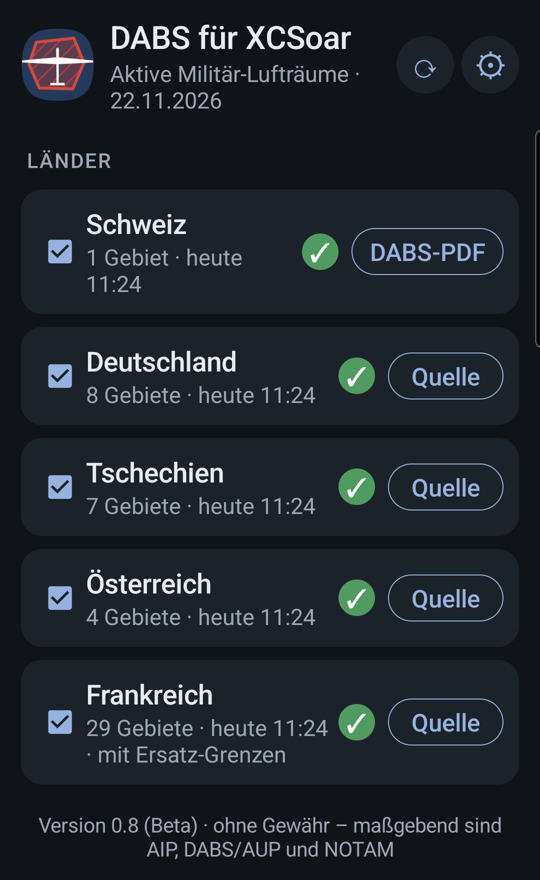
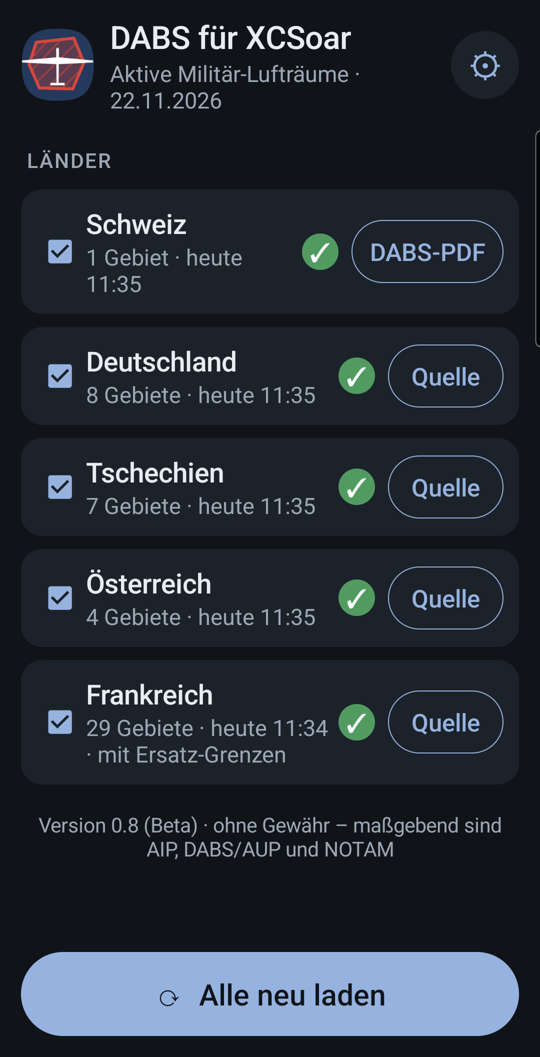
0.8: großer Neu-laden-Knopf unten, Tippflächen ≥48 dp, Einstellungen mit Unterseiten, NOTAM-Abfragen parallel
- fester Knopf unten mit Fortschritt ('3 von 5 fertig'), kleiner Knopf oben entfällt
- Einstellungen: Menü mit 4 Unterseiten
- NOTAM-Abfragen gleichzeitig: Frankreich ~11 s statt >60 s

diff --git a/app/src/dabs/xcsoar/SettingsActivity.java b/app/src/dabs/xcsoar/SettingsActivity.java
@@ -17,14 +17,25 @@ import android.widget.TextView;
 public class SettingsActivity extends Activity {
     private Ui ui;
     private LinearLayout body;
+    private String page; // null = Menü, sonst "help", "installs", "storage", "about"
+
+    static String title(String p) {
+        switch (p) {
+            case "help": return "So funktioniert's";
+            case "installs": return "XCSoar-Versionen";
+            case "storage": return "Dateizugriff";
+            default: return "Copyright & Quellen";
+        }
+    }
 
     @Override
     protected void onCreate(Bundle b) {
         Ui.theme(this);
         super.onCreate(b);
         ui = new Ui(this);
+        page = getIntent().getStringExtra("page");
         LinearLayout col = ui.page();
-        ui.backHeader(col, "Einstellungen");
+        ui.backHeader(col, page == null ? "Einstellungen" : title(page));
         body = new LinearLayout(this);
         body.setOrientation(LinearLayout.VERTICAL);
         col.addView(body);
@@ -38,9 +49,40 @@ public class SettingsActivity extends Activity {
 
     private void build() {
         body.removeAllViews();
+        if (page == null) { menu(); return; }
+        switch (page) {
+            case "help": help(); break;
+            case "installs": installs(); break;
+            case "storage": storage(); break;
+            default: about();
+        }
+    }
 
-        // --- Programmhinweise
-        body.addView(ui.section("So funktioniert's"));
+    /** Menü: große, gut treffbare Einträge. */
+    private void menu() {
+        int n = 0;
+        for (Updater.Install i : Updater.installs()) if (i.exists() && Updater.installEnabled(this, i)) n++;
+        boolean ok = Updater.hasStorageAccess(this);
+        body.addView(entry("help", "Programmhinweise, Einrichtung in XCSoar, Farben"));
+        body.addView(entry("installs", n + (n == 1 ? " Installation" : " Installationen") + " ausgewählt"));
+        body.addView(entry("storage", ok ? "✓ erlaubt" : "✕ fehlt – bitte erlauben"));
+        body.addView(entry("about", "Version " + versionName() + " · Lizenz · Datenquellen"));
+    }
+
+    private LinearLayout entry(String p, String subtitle) {
+        LinearLayout c = ui.card(false);
+        c.setMinimumHeight(ui.dp(72));
+        LinearLayout t = new LinearLayout(this);
+        t.setOrientation(LinearLayout.VERTICAL);
+        t.addView(ui.text(title(p), 18, ui.text, true));
+        t.addView(ui.text(subtitle, 14, p.equals("storage") && !Updater.hasStorageAccess(this) ? Ui.RED : ui.sub, false));
+        c.addView(t, Ui.weight1());
+        c.addView(ui.text("›", 28, ui.sub, false));
+        c.setOnClickListener(v -> startActivity(new android.content.Intent(this, SettingsActivity.class).putExtra("page", p)));
+        return c;
+    }
+
+    private void help() {
         LinearLayout h = ui.card(true);
         h.addView(html(
                 "Beim <b>Öffnen der App</b> werden die heute aktiven Militär- und Sperrgebiete der gewählten Länder "
@@ -57,9 +99,9 @@ public class SettingsActivity extends Activity {
                 + "„Grenzen aus &lt;Datei&gt;“. Sonst ein ungefährer Kreis aus dem NOTAM.<br><br>"
                 + "Namen enthalten Datum und Zeiten (UTC). Steht ein altes Datum im Namen, war das Laden nicht erfolgreich."));
         body.addView(h);
+    }
 
-        // --- XCSoar-Versionen
-        body.addView(ui.section("XCSoar-Versionen"));
+    private void installs() {
         LinearLayout v = ui.card(true);
         v.addView(ui.text("In welche Installationen sollen die Dateien geschrieben werden?", 13, ui.sub, false));
         for (Updater.Install i : Updater.installs()) {
@@ -69,7 +111,8 @@ public class SettingsActivity extends Activity {
             cb.setButtonTintList(android.content.res.ColorStateList.valueOf(ui.accent));
             cb.setText(i.label + (ver != null ? " " + ver : ""));
             cb.setTextColor(exists ? ui.text : ui.sub);
-            cb.setTextSize(15);
+            cb.setTextSize(16);
+            cb.setMinHeight(ui.dp(48));
             cb.setChecked(exists && Updater.installEnabled(this, i));
             cb.setEnabled(exists);
             cb.setOnCheckedChangeListener((x, on) -> {
@@ -83,9 +126,13 @@ public class SettingsActivity extends Activity {
             v.addView(p);
         }
         body.addView(v);
+        TextView note = ui.text("Als Ersatz-Grenzen werden nur Luftraumdateien aus den aktiven Profilen der hier "
+                + "gewählten Installationen genutzt. Abwählen entfernt die App-Dateien dort.", 13, ui.sub, false);
+        note.setPadding(ui.dp(4), ui.dp(10), ui.dp(4), 0);
+        body.addView(note);
+    }
 
-        // --- Dateizugriff
-        body.addView(ui.section("Dateizugriff"));
+    private void storage() {
         LinearLayout f = ui.card(true);
         boolean ok = Updater.hasStorageAccess(this);
         f.addView(ui.text(ok ? "✓ Zugriff auf alle Dateien erlaubt" : "✕ Zugriff auf alle Dateien fehlt",
@@ -95,10 +142,14 @@ public class SettingsActivity extends Activity {
             g.setOnClickListener(x -> requestStorage());
             f.addView(g);
         }
+        TextView why = ui.text("Nötig, weil die App in den Ordner einer anderen App (XCSoar) schreibt. "
+                + "Gelesen werden nur die XCSoar-Ordner.", 13, ui.sub, false);
+        why.setPadding(0, ui.dp(8), 0, 0);
+        f.addView(why);
         body.addView(f);
+    }
 
-        // --- Copyright & Datenquellen
-        body.addView(ui.section("Copyright & Datenquellen"));
+    private void about() {
         LinearLayout c = ui.card(true);
         c.addView(html("<b>DABS für XCSoar</b> – Version " + versionName() + " (Beta)<br>"
                 + "© 2026 Nadja · Lizenz: MIT · "

diff --git a/app/src/dabs/xcsoar/MainActivity.java b/app/src/dabs/xcsoar/MainActivity.java
@@ -28,13 +28,14 @@ public class MainActivity extends Activity implements Updater.Listener {
     private Ui ui;
     private LinearLayout list;
     private View storageCard;
+    private Button reloadBtn;
 
     @Override
     protected void onCreate(Bundle b) {
         Ui.theme(this);
         super.onCreate(b);
         ui = new Ui(this);
-        LinearLayout col = ui.page();
+        LinearLayout col = ui.pageWithBottom();
 
         // Kopf: Logo, Titel, Aktualisieren, Einstellungen
         LinearLayout head = new LinearLayout(this);
@@ -48,13 +49,8 @@ public class MainActivity extends Activity implements Updater.Listener {
         titles.addView(ui.text("DABS für XCSoar", 21, ui.text, true));
         titles.addView(ui.text("Aktive Militär-Lufträume · " + Updater.today(), 13, ui.sub, false));
         head.addView(titles, Ui.weight1());
-        TextView refresh = ui.iconButton("⟳");
-        refresh.setContentDescription("Alle neu laden");
-        refresh.setOnClickListener(v -> reload());
-        head.addView(refresh);
         TextView gear = ui.iconButton("⚙");
         gear.setContentDescription("Einstellungen");
-        ((LinearLayout.LayoutParams) gear.getLayoutParams()).leftMargin = ui.dp(6);
         gear.setOnClickListener(v -> {
             skipReload = true;
             startActivity(new Intent(this, SettingsActivity.class));
@@ -78,6 +74,11 @@ public class MainActivity extends Activity implements Updater.Listener {
         list = new LinearLayout(this);
         list.setOrientation(LinearLayout.VERTICAL);
         col.addView(list);
+
+        // großer Knopf unten (fest, scrollt nicht weg)
+        reloadBtn = ui.bigButton("⟳  Alle neu laden");
+        reloadBtn.setOnClickListener(v -> reload());
+        ui.bottom.addView(reloadBtn);
 
         TextView foot = ui.text("Version " + versionName() + " (Beta) · ohne Gewähr – maßgebend sind AIP, DABS/AUP und NOTAM",
                 12, ui.sub, false);
@@ -120,7 +121,22 @@ public class MainActivity extends Activity implements Updater.Listener {
     @Override
     public void changed() {
         list.removeAllViews();
-        for (Country k : Country.values()) list.addView(row(k));
+        int on = 0, done = 0;
+        for (Country k : Country.values()) {
+            list.addView(row(k));
+            if (Updater.enabled(this, k)) {
+                on++;
+                if (!Updater.running(k)) done++;
+            }
+        }
+        // großer Knopf zeigt den Fortschritt
+        if (Updater.anyRunning()) {
+            reloadBtn.setText("Lädt …  " + done + " von " + on + " fertig");
+            reloadBtn.setAlpha(0.7f);
+        } else {
+            reloadBtn.setText("⟳  Alle neu laden");
+            reloadBtn.setAlpha(1f);
+        }
     }
 
     private View row(Country k) {
@@ -150,7 +166,7 @@ public class MainActivity extends Activity implements Updater.Listener {
         c.addView(icon);
 
         Button src = ui.button(k == Country.CH ? "DABS-PDF" : "Quelle", false);
-        LinearLayout.LayoutParams lp = new LinearLayout.LayoutParams(LinearLayout.LayoutParams.WRAP_CONTENT, ui.dp(36));
+        LinearLayout.LayoutParams lp = new LinearLayout.LayoutParams(LinearLayout.LayoutParams.WRAP_CONTENT, ui.dp(48));
         lp.leftMargin = ui.dp(10);
         src.setLayoutParams(lp);
         src.setOnClickListener(v -> openSource(this, k));
@@ -173,7 +189,7 @@ public class MainActivity extends Activity implements Updater.Listener {
                 return t;
             }
             case ERROR: return "Fehler · antippen für Details";
-            case INTERRUPTED: return "abgebrochen – ⟳ zum Neuladen";
+            case INTERRUPTED: return "abgebrochen – unten neu laden";
             default: return "noch nicht geladen";
         }
     }

diff --git a/app/src/dabs/xcsoar/Ui.java b/app/src/dabs/xcsoar/Ui.java
@@ -71,6 +71,40 @@ final class Ui {
         return col;
     }
 
+    /** Leiste unten (nur bei pageWithBottom), bleibt beim Scrollen stehen. */
+    LinearLayout bottom;
+
+    /** Wie page(), aber mit fester Leiste unten für den großen Knopf. */
+    LinearLayout pageWithBottom() {
+        LinearLayout col = page();
+        ScrollView sv = (ScrollView) col.getParent();
+        ((android.view.ViewGroup) sv.getParent()).removeView(sv);
+        LinearLayout root = new LinearLayout(a);
+        root.setOrientation(LinearLayout.VERTICAL);
+        root.setBackgroundColor(bg);
+        root.addView(sv, new LinearLayout.LayoutParams(ViewGroup.LayoutParams.MATCH_PARENT, 0, 1f));
+        bottom = new LinearLayout(a);
+        bottom.setOrientation(LinearLayout.VERTICAL);
+        bottom.setPadding(dp(16), dp(8), dp(16), dp(16));
+        bottom.setBackgroundColor(bg);
+        root.addView(bottom);
+        a.setContentView(root);
+        return col;
+    }
+
+    /** Großer Hauptknopf (auch im Flug mit Handschuh/Turbulenz gut zu treffen). */
+    Button bigButton(String label) {
+        Button b = button(label, true);
+        b.setTextSize(19);
+        b.setTypeface(Typeface.create("sans-serif-medium", Typeface.NORMAL));
+        GradientDrawable g = new GradientDrawable();
+        g.setCornerRadius(dp(32));
+        g.setColor(accent);
+        b.setBackground(new RippleDrawable(ColorStateList.valueOf(line), g, null));
+        b.setLayoutParams(new LinearLayout.LayoutParams(ViewGroup.LayoutParams.MATCH_PARENT, dp(64)));
+        return b;
+    }
+
     Drawable rounded(int color, float radiusDp) {
         GradientDrawable g = new GradientDrawable();
         g.setColor(color);
@@ -114,12 +148,12 @@ final class Ui {
         b.setText(label);
         b.setAllCaps(false);
         b.setTextSize(14);
-        b.setMinHeight(dp(36));
-        b.setMinimumHeight(dp(36));
+        b.setMinHeight(dp(48));
+        b.setMinimumHeight(dp(48));
         b.setPadding(dp(14), 0, dp(14), 0);
         b.setStateListAnimator(null);
         GradientDrawable g = new GradientDrawable();
-        g.setCornerRadius(dp(18));
+        g.setCornerRadius(dp(24));
         if (filled) {
             g.setColor(accent);
             b.setTextColor(onAccent);
@@ -134,9 +168,9 @@ final class Ui {
 
     /** Runder Symbol-Knopf (z. B. ⟳ oder ⚙). */
     TextView iconButton(String glyph) {
-        TextView t = text(glyph, 22, accent, false);
+        TextView t = text(glyph, 24, accent, false);
         t.setGravity(Gravity.CENTER);
-        int s = dp(44);
+        int s = dp(52);
         t.setLayoutParams(new LinearLayout.LayoutParams(s, s));
         GradientDrawable g = new GradientDrawable();
         g.setShape(GradientDrawable.OVAL);

diff --git a/app/src/dabs/core/Notams.java b/app/src/dabs/core/Notams.java
@@ -37,13 +37,20 @@ public final class Notams {
             "\\b(LO[RDPT] ?\\d+[A-Z]?|LF[- ]?[RDP] ?\\d+[A-Z]?\\d?|TRA ?\\d+[A-Z]?\\d?|TSA ?\\d+[A-Z]?\\d?|CBA ?\\d+[A-Z]?\\d?|AZBA|RTBA|AIP SUP \\d+/\\d+)(?![A-Z0-9])");
 
     public static Country.Result fetch(double[][] centers, String[] firs, LocalDate day, LocalGeometry local) throws Exception {
-        Http h = new Http();
+        // Abfragen gleichzeitig (der Dienst braucht ca. 5 s je Abfrage; FR hat 16 Punkte)
+        java.util.concurrent.ExecutorService pool = java.util.concurrent.Executors.newFixedThreadPool(Math.min(8, centers.length));
+        List<java.util.concurrent.Future<String>> jobs = new ArrayList<>();
+        for (double[] c : centers) {
+            String url = String.format(Locale.ROOT, "%s?lat=%.2f&lon=%.2f&radius=100", API, c[0], c[1]);
+            jobs.add(pool.submit(() -> new Http().get(url)));
+        }
+        pool.shutdown();
         Set<String> seen = new HashSet<>();   // NOTAM-IDs und -Nummern (Duplikate aus mehreren Abfragen)
         List<Map<String, Object>> items = new ArrayList<>();
         int failed = 0;
-        for (double[] c : centers) {
+        for (java.util.concurrent.Future<String> f : jobs) {   // Reihenfolge bleibt wie die Punkte
             try {
-                String json = h.get(String.format(Locale.ROOT, "%s?lat=%.2f&lon=%.2f&radius=100", API, c[0], c[1]));
+                String json = f.get(60, java.util.concurrent.TimeUnit.SECONDS);
                 for (Object o : Json.arr(Json.obj(Json.parse(json)).get("items"))) {
                     Map<String, Object> it = Json.obj(o);
                     Map<String, Object> n = notam(it);

diff --git a/README.md b/README.md
@@ -55,8 +55,10 @@ Die App läuft **nicht im Hintergrund**: Daten werden nur geholt, wenn du sie ö
   Uhrzeit), rot ✕ = Fehler, orange ! = abgebrochen. Die Länder laden gleichzeitig.
 - **Antippen eines Landes:** Details – Stand, Gebietsliste mit Zeiten und Höhen, Fehlermeldung,
   Herkunft der Grenzen, „Neu laden“.
-- **⟳** lädt alles neu, **⚙** öffnet die Einstellungen: Programmhinweise, welche XCSoar-Installationen
-  beschrieben werden (mit erkannter Version), Dateizugriff, Copyright & Datenquellen.
+- **Großer Knopf unten** „Alle neu laden“ (auch im Flug gut zu treffen); während des Ladens zeigt er
+  den Fortschritt („3 von 5 fertig“).
+- **⚙ Einstellungen** mit Unterseiten: So funktioniert's · XCSoar-Versionen (welche Installationen
+  beschrieben werden, mit erkannter Version) · Dateizugriff · Copyright & Quellen.
 
 ## Installation
 
